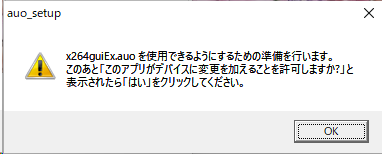
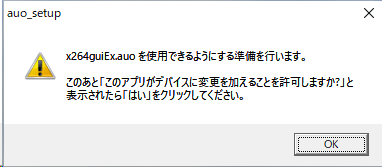
インストーラのメッセージ調整に合わせた更新。

diff --git a/install.md b/install.md
@@ -35,9 +35,9 @@ OKをクリックすると使用準備が開始されます。
 ![UAC](./data/x264guiEx_3_00_install_06.png)
 
 ----
-下の図のようなウィンドウが表示され、x264guiExの使用に必要なモジュールがインストールされます。(すぐ終わるので一瞬かもしれません)
+下の図のようなウィンドウが表示され、x264guiExの使用に必要なモジュールがインストールされます。
 
-特にエラーなくインストールが完了すると自動的にウィンドウが閉じます。
+エラーなくインストールが完了すると下記のように表示されますので、ウィンドウを閉じてください。
 
 ![auo_setup](./data/x264guiEx_3_00_install_11.png)
 
